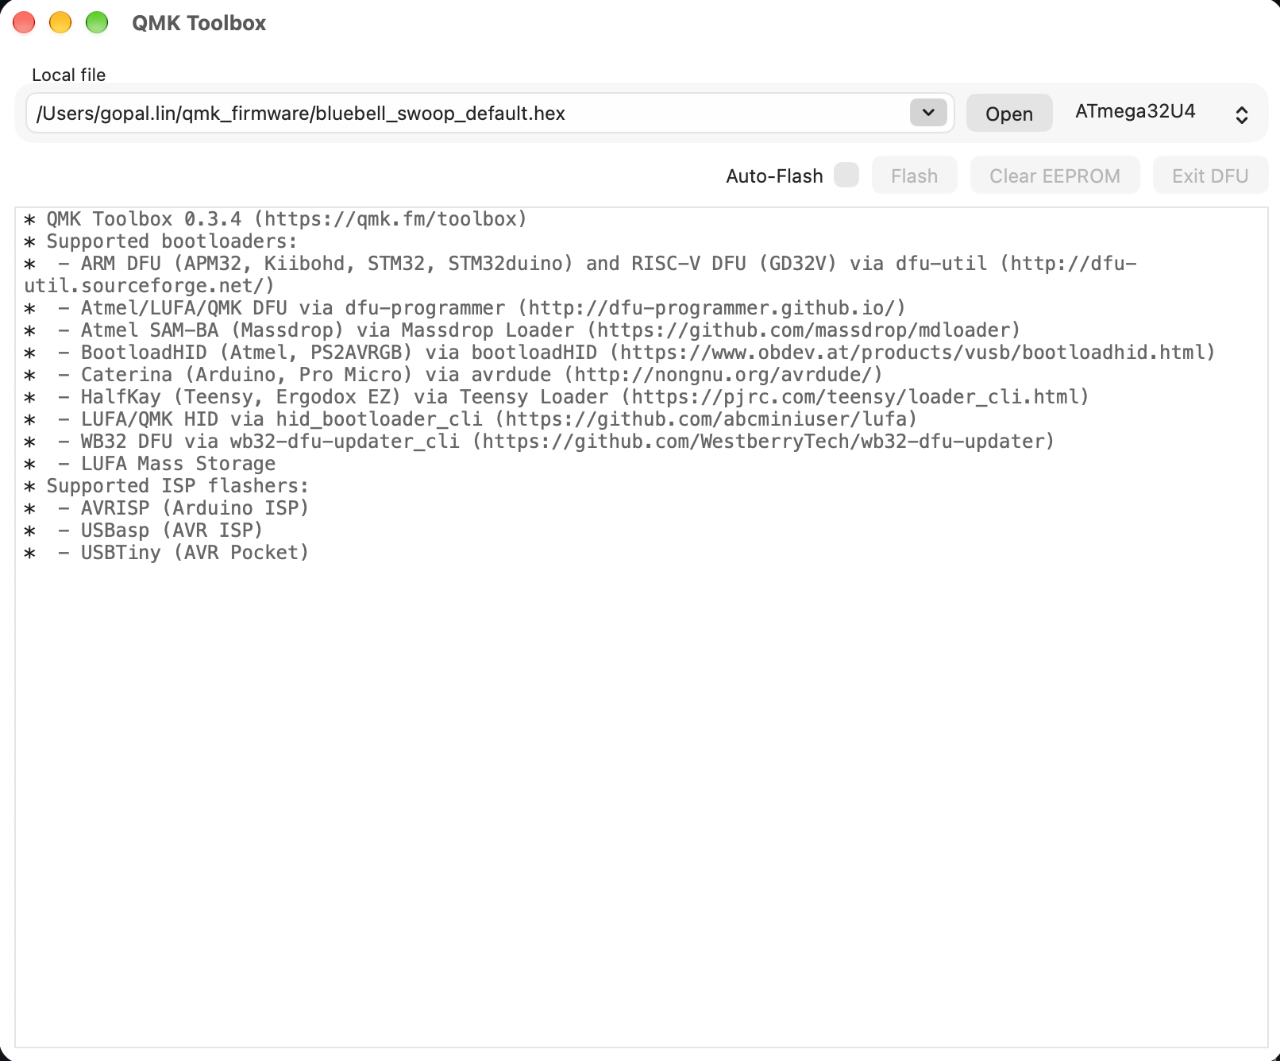
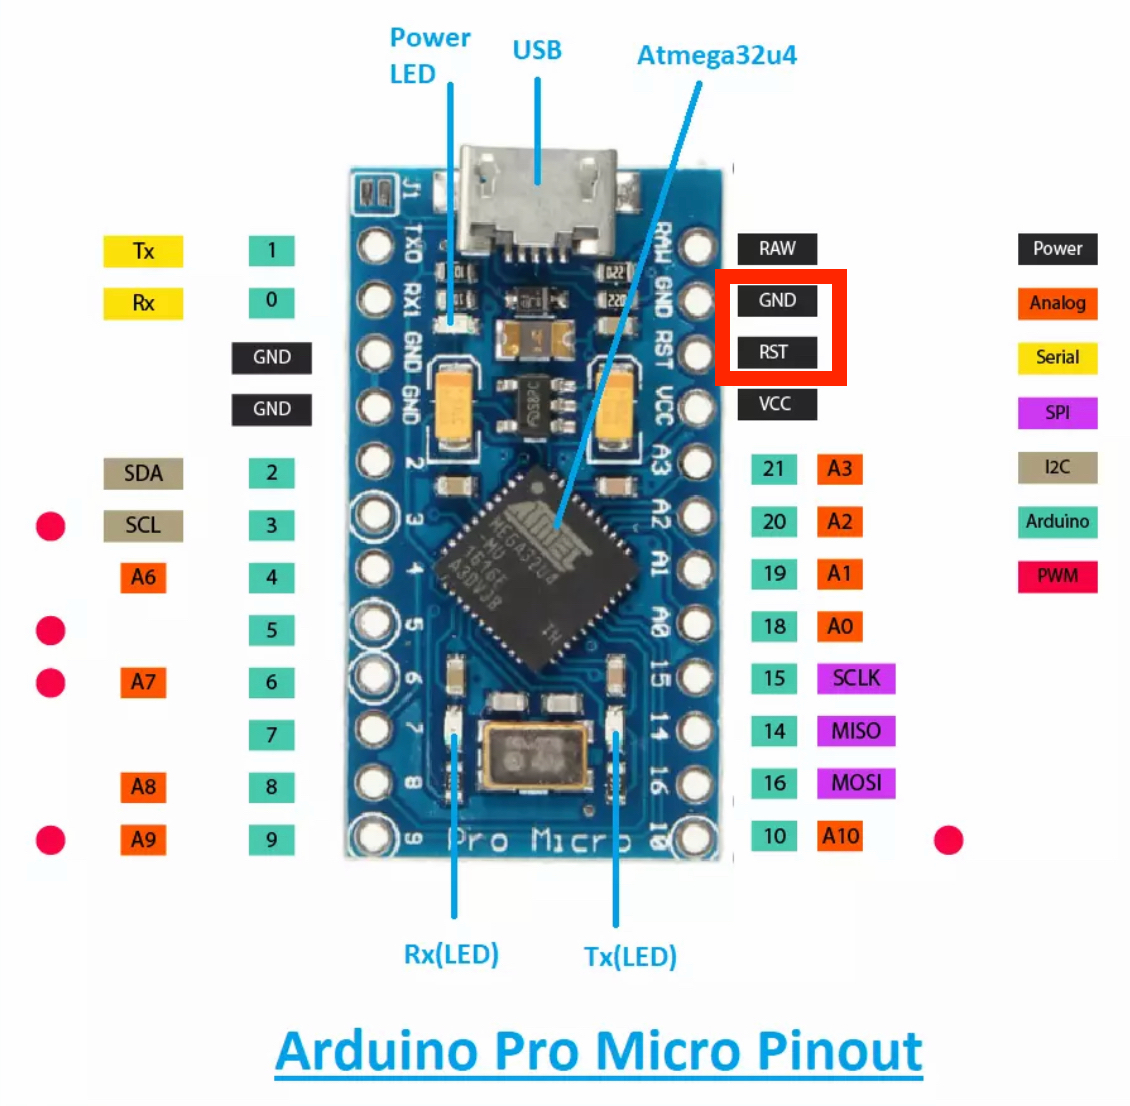
fix: use command instead toolbox

diff --git a/content/post/keyboard_flasing.md b/content/post/keyboard_flasing.md
@@ -29,17 +29,47 @@ qmk compile -kb bluebell/swoop -km default
 
 /Users/gopal.lin/qmk_firmware/bluebell_swoop_default.hex
 
-3. 用 [QMK Toolbox](https://qmk.fm/toolbox) 燒錄
+3. 用 qmk flash 指令燒錄
 
 *   將做好鍵盤的主控板 ProMicro 連結電腦。還記得我前面因為其中一個 ProMicro 的 micro USB 連接器，而必須將鍵位設計為鏡像嗎。如果你沒有發生像我一樣的悲劇，就把左手邊的 ProMicro 連結電腦就可以了
 
-*   打開 QMK Toolbox
+```bash
+cd ~/qmk_firmware && qmk flash -kb bluebell/swoop -km default
+```
+
+*   看到 Waiting for USB serial port 後，ProMicro 的兩個接腳短按 (紅框處)，目的是要讓板子進入 bootloader 燒錄模式
+
 
 ![keyboard-flasing](/images/keyboard-flasing-0.png "70%")
 
-*   將 ProMicro 的兩個接腳短按 (紅框處)，目的是要讓板子進入 bootloader 燒錄模式
 
-![keyboard-flasing](/images/keyboard-flasing-1.png "70%")
+*   一切正常的話，就會看到下面的 log，這時候就已經燒錄完畢了！
+```bash
+  Ψ Compiling keymap with gmake -r -R -f builddefs/build_keyboard.mk flash KEYBOARD=bluebell/swoop KEYMAP=default KEYBOARD_FILESAFE=bluebell_swoop TARGET=bluebell_swoop_default VERBOSE=false COLOR=true SILENT=false QMK_BIN="qmk"
 
-*   QMK ToolBox 頁面上按 Flash，並且等燒錄跑完就可以了~
+  avr-gcc (Homebrew AVR GCC 8.5.0_3) 8.5.0
+  Copyright (C) 2018 Free Software Foundation, Inc.
+  This is free software; see the source for copying conditions.  There is NO
+  warranty; not even for MERCHANTABILITY or FITNESS FOR A PARTICULAR PURPOSE.
+
+  Size before:
+     text    data     bss     dec     hex filename
+        0   21200       0   21200    52d0 bluebell_swoop_default.hex
+
+  Copying bluebell_swoop_default.hex to qmk_firmware folder                                           [OK]
+  Checking file size of bluebell_swoop_default.hex                                                    [O
+  - The firmware size is fine - 21200/28672 (73%, 7472 bytes free)
+    Flashing for bootloader
+    Waiting for USB serial port - reset your controller now (Ctrl+C to
+  cancel)..........
+    Device /dev/tty.usbmodem1101 has appeared; assuming it is the controller.
+    Waiting for /dev/tty.usble.
+    Reading 21200 bytes for flash from input file bluebell_swoop_default.hex
+    Writing 21200 bytes to
+    Writing | ################################################## | 100% 1.56 s
+    Reading | ######################## | 100% 0.15 s
+    21200 bytes of flash verified
+
+  Avrdude done.  Thank you.
+```
 ---

diff --git a/content/post/keyboard_composite_key.md b/content/post/keyboard_composite_key.md
@@ -187,7 +187,7 @@ enum custom_keycodes {
 
 const uint16_t PROGMEM keymaps[][MATRIX_ROWS][MATRIX_COLS] = {
     [0] = LAYOUT_split_3x5_3(KC_P, KC_O, KC_I, KC_U, KC_Y, KC_T, KC_R, KC_E, KC_W, KC_Q, KC_SCLN, KC_L, KC_K, KC_J, KC_H, KC_G, KC_F, KC_D, KC_S, KC_A, KC_SLSH, KC_DOT, KC_COMM, KC_M, KC_N, KC_B, KC_V, KC_C, KC_X, KC_Z, MO(1), KC_SPC, KC_LGUI, KC_LALT, KC_LCTL, KC_LSFT),
-    [1] = LAYOUT_split_3x5_3(KC_0, KC_9, KC_8, KC_7, KC_6, KC_5, KC_4, KC_3, KC_2, KC_1, KC_MINS, KC_RGHT, KC_UP, KC_DOWN, KC_LEFT, SC_SPACE, KC_ENT, KC_TAB, KC_NO, KC_GRV, KC_EQL, KC_RBRC, KC_LBRC, KC_BSLS, KC_QUOT, KC_LGUI, KC_BSPC, KC_ESC, KC_NO, KC_NO, KC_TRNS, KC_SPC, KC_LGUI, KC_LALT, KC_LCTL, KC_LSFT)
+    [1] = LAYOUT_split_3x5_3(KC_0, KC_9, KC_8, KC_7, KC_6, KC_5, KC_4, KC_3, KC_2, KC_1, KC_MINS, KC_RGHT, KC_UP, KC_DOWN, KC_LEFT, SC_SPACE, KC_ENT, KC_TAB, KC_NO, KC_GRV, KC_EQL, KC_RBRC, KC_LBRC, KC_BSLS, KC_QUOT, KC_RGUI, KC_BSPC, KC_ESC, KC_NO, KC_NO, KC_TRNS, KC_SPC, KC_LGUI, KC_LALT, KC_LCTL, KC_LSFT)
 };
 
 bool process_record_user(uint16_t keycode, keyrecord_t *record) {
